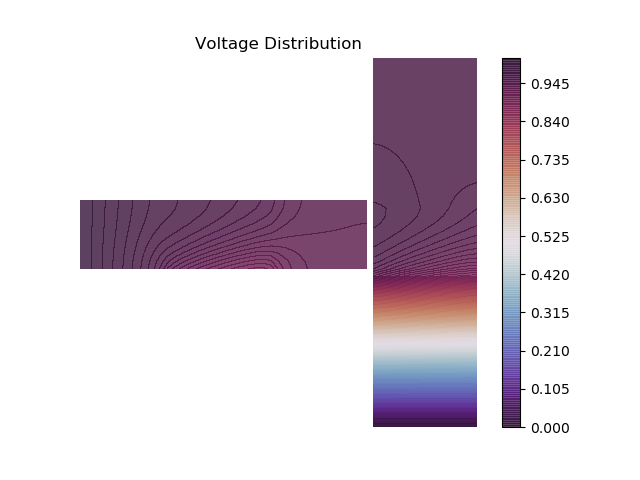
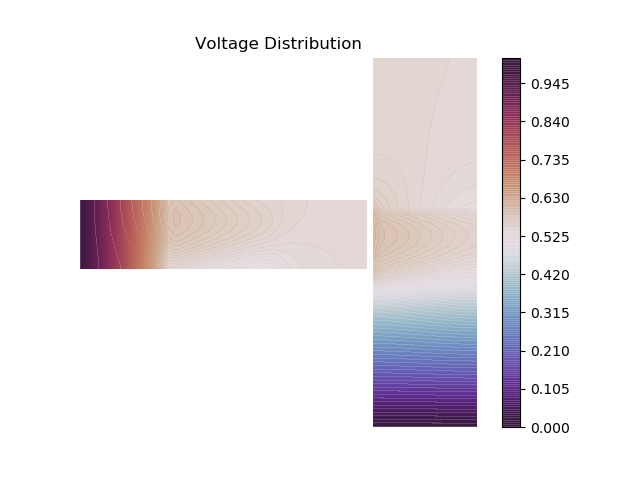
Corrected Interface

Changed region(s): [[0.125, 0.0938, 0.75, 0.9062]]

diff --git a/main.py b/main.py
@@ -3,7 +3,7 @@ import matplotlib
 matplotlib.use('tkagg')
 import matplotlib.pyplot as plt
 
-CONVERGENCE_THRESHOLD = 1e-6
+CONVERGENCE_THRESHOLD = 1e-20
 
 class Fixed:
     FREE = 0
@@ -17,9 +17,9 @@ class Node:
         self.fixed = f
 
 def set_boundary(grid1,grid2):
-    for j in range(10):
-        grid1[j][0] = Node(1.0, Fixed.A)
-    for j in range(15):
+    for j in range(2):
+        grid1[j][0] = Node(10.0, Fixed.A)
+    for j in range(1):
         grid2[j][0] = Node(0.0, Fixed.B)
 
 
@@ -66,8 +66,8 @@ def V_mnp(m,n,p,grid1,grid2,row1,col1,row2,col2,R_top,R_bot,R_cross,cross_bounda
                 Vmnp += grid1[m][n+1].voltage /R_top
                 R_inv += 1/R_top
             if ((n>=cross_boundary[0]) and (n<=cross_boundary[1])):
-                layer2_position_1 = n - cross_boundary[0]
-                layer2_position_2 = cross_boundary[3] - m
+                layer2_position_1 = n - cross_boundary[0]  
+                layer2_position_2 = cross_boundary[3] - m 
                 Vmnp += grid2[layer2_position_1][layer2_position_2].voltage / R_cross
                 R_inv += 1/R_cross
             Vmnp = Vmnp/R_inv
@@ -90,8 +90,8 @@ def V_mnp(m,n,p,grid1,grid2,row1,col1,row2,col2,R_top,R_bot,R_cross,cross_bounda
                 Vmnp += grid2[m][n+1].voltage /R_bot
                 R_inv += 1/R_bot
             if ((n>=cross_boundary[2]) and (n<=cross_boundary[3])):
-                layer1_position_1 = cross_boundary[3] - n
-                layer1_position_2 = m + cross_boundary[0] - 1
+                layer1_position_1 = cross_boundary[3] - n   
+                layer1_position_2 = m + cross_boundary[0]  
                 Vmnp += grid1[layer1_position_1][layer1_position_2].voltage / R_cross
                 R_inv += 1/R_cross
             Vmnp = Vmnp/R_inv
@@ -165,17 +165,17 @@ def resistance(num_iter, grid1, grid2, cross, R_top, R_bot, R_cross):
             if grid2[i][j].fixed == Fixed.A: curA += I2[i][j]
             if grid2[i][j].fixed == Fixed.B: curB += I2[i][j]
     cur = curA - curB
-    res = 1/cur
-    return res
+    res = 10/cur
+    return res, curA, curB
 
 
-row1 = 10
-col1 = 40 
-row2 = 15
-col2 = 50
+row1 = 5
+col1 = 10 
+row2 = 5
+col2 = 10
 
 R_top   = 10
-R_bot   = 20
+R_bot   = 15
 R_cross = 10
 
 print("--------------------------------------------- ")
@@ -188,8 +188,11 @@ layer1 = [[Node() for i in range(col1)] for j in range(row1)]
 layer2 = [[Node() for i in range(col2)] for j in range(row2)]
 set_boundary(layer1,layer2)
 cross = find_cross_boundaries(row1, col1, row2, col2)
-final_resistance = resistance(10000, layer1, layer2, cross, R_top, R_bot, R_cross)
+print(cross)
+final_resistance, curA, curB = resistance(10000, layer1, layer2, cross, R_top, R_bot, R_cross)
 print("\nThe resistance of the network is %.5f Ohms."%final_resistance)
+print("I+ = ", curA)
+print("I- = ", curB)
 V1, V2 = np.empty((row1,col1)), np.empty((row2,col2))
 for i in range(row1):
     for j in range(col1):
@@ -206,10 +209,11 @@ X2 = [i for i in range(col1,col1+row2)]
 Y2 = [i for i in range(col2)]
 x2,y2 = np.meshgrid(X2,Y2)
 
-levels = np.arange(-0.005,1.015,0.005)+0.005
+levels = np.arange(-0.005,10.015,0.005)+0.005
 plt.contourf(x1,y1,V1,levels,alpha=0.8,cmap='twilight_shifted')
 plt.contourf(x2,y2,V2.T,levels,alpha=0.8,cmap='twilight_shifted')
 plt.colorbar()
 plt.axis('off')
 plt.title("Voltage Distribution")
-plt.savefig('Voltage_Distribution.png')
+plt.show()
+#plt.savefig('Voltage_Distribution.png')
